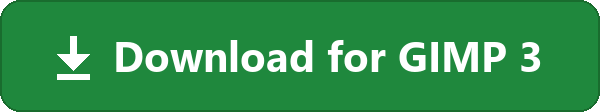
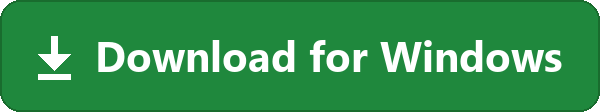
README: the download button says it is for Windows
install.bat is Windows-only and Linux and macOS are untested: the button
now reads "Download for Windows", and the line under it points Linux and
macOS users to the installation steps.

Claude-Session: https://claude.ai/code/session_018X6coTvn94APSKgzcDUb6V

Changed region(s): [[0.06, 0.3214, 0.96, 0.6429], [0.06, 0.6429, 0.15, 0.7232]]

diff --git a/README.md b/README.md
@@ -6,8 +6,8 @@ selects by *object* instead of by *colour*: click on something in the image and
 out which pixels belong to it. The result is a normal GIMP selection with marching ants.
 
 <p align="center">
-  <a href="https://github.com/Esbob/gimp-ai-fuzzy-select/releases/latest/download/gimp-ai-fuzzy-select.zip"><img src="assets/download-button.png" width="300" alt="Download for GIMP 3"></a><br>
-  <sub>Unzip it and double-click <code>install.bat</code> · <a href="#installation">installation steps</a></sub>
+  <a href="https://github.com/Esbob/gimp-ai-fuzzy-select/releases/latest/download/gimp-ai-fuzzy-select.zip"><img src="assets/download-button.png" width="300" alt="Download for Windows"></a><br>
+  <sub>For GIMP 3 on Windows: unzip it and double-click <code>install.bat</code> · <a href="#installation">installation steps</a>, also for Linux and macOS (untested)</sub>
 </p>
 
 <img width="1920" height="1020" alt="AI_Fuzzy_Select" src="https://github.com/user-attachments/assets/2b375a6d-3563-4bd6-a517-694790976008" />
